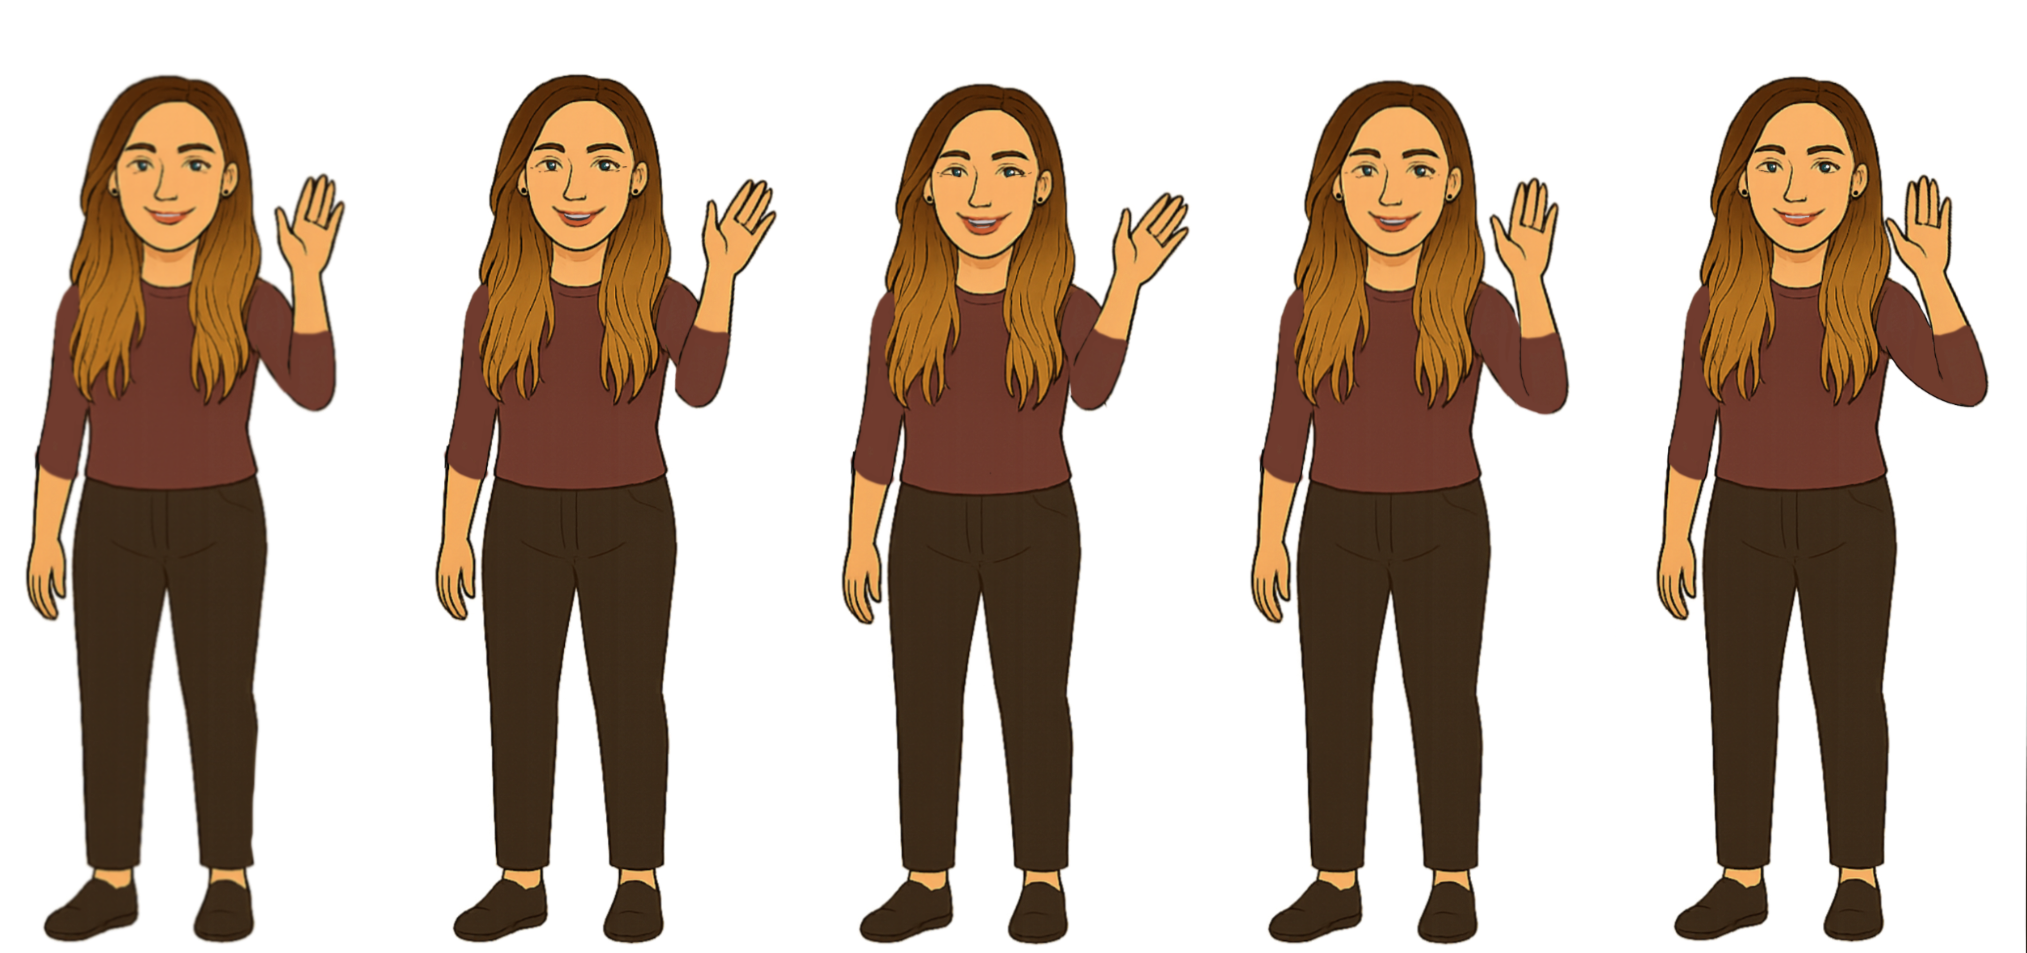
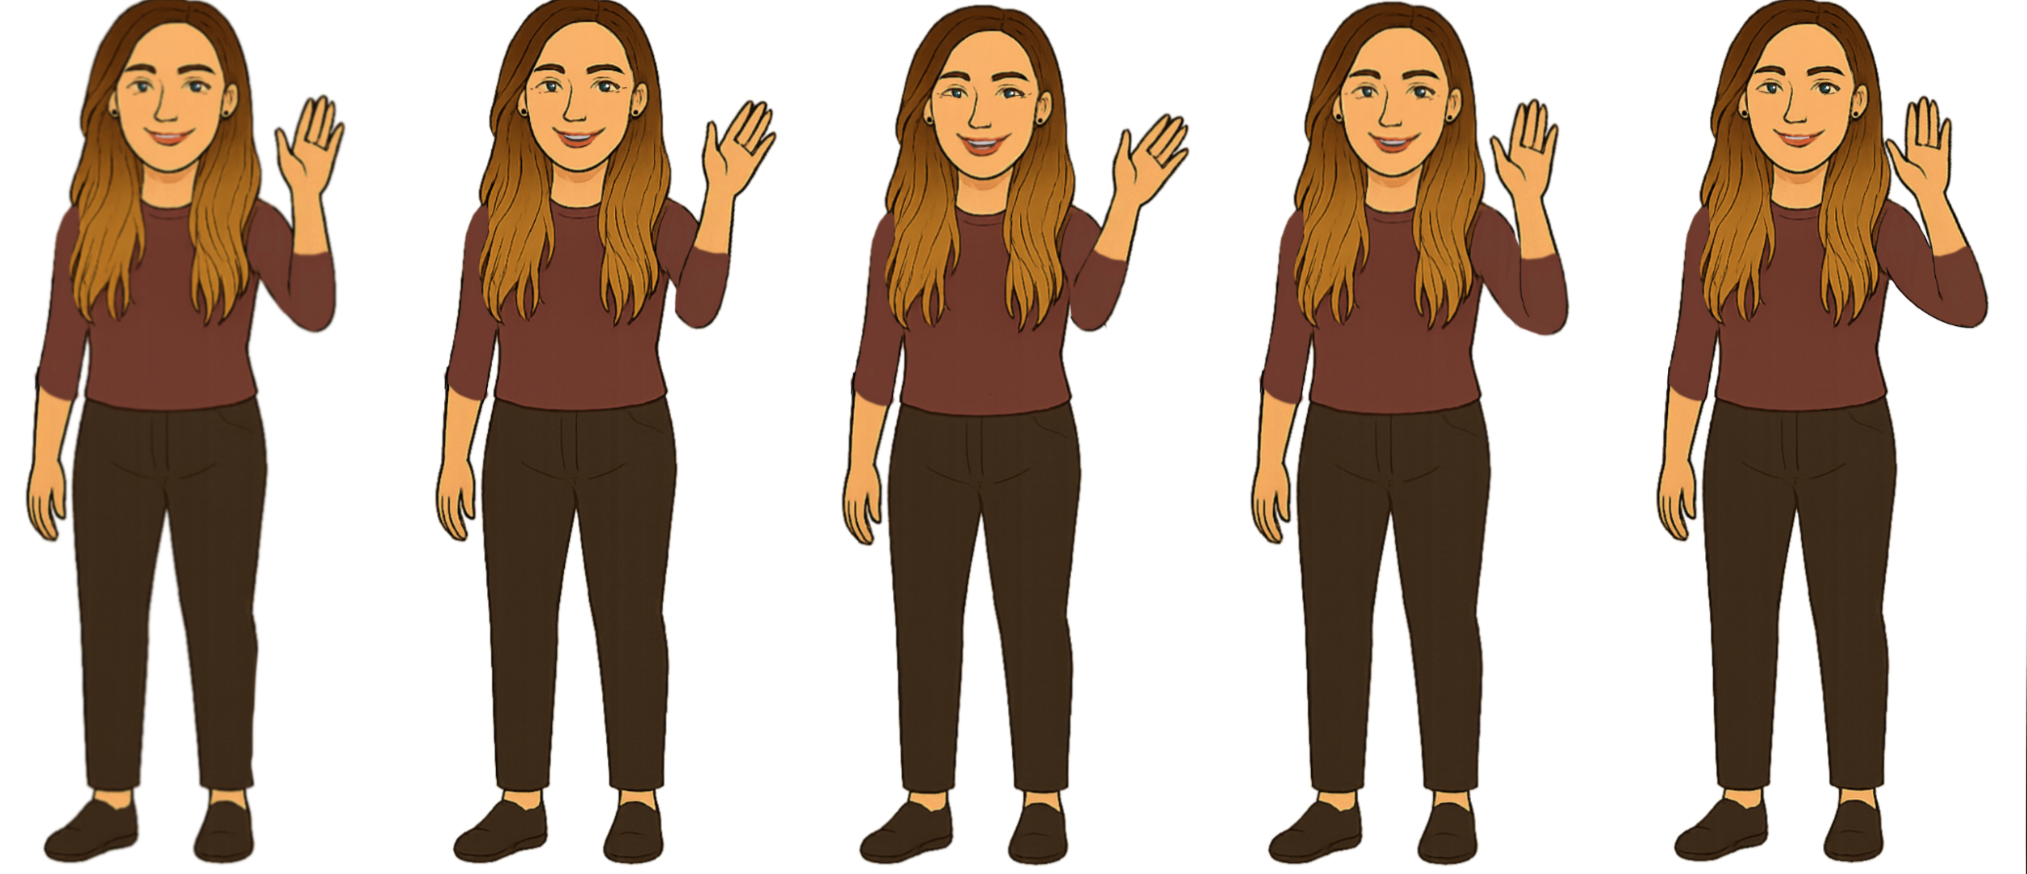
animation is OK but not on small screen, squished regardless

diff --git a/src/components/CharacterAnimation.css b/src/components/CharacterAnimation.css
@@ -13,7 +13,8 @@
 
 .character.walk {
   background-image: url("/assets/walk.png");
-  background-size: 800% 100%; /* 8 frames */
+  background-size: 3665px 100%; /* 8 frames, total width */
+  height: 1191px; /* 953px * 1.25 for 25% taller */
   animation: walk-frames 1s steps(8) infinite, walk-move 2s linear forwards;
 }
 
@@ -22,7 +23,7 @@
     background-position: 0 0;
   }
   to {
-    background-position: -3854px 0;
+    background-position: -3665px 0;
   }
 }
 
@@ -38,7 +39,8 @@
 .character.wave {
   left: 25vw;
   background-image: url("/assets/wave.png");
-  background-size: 500% 100%; /* 5 frames */
+  background-size: 2027px 100%; /* 5 frames, total width */
+  height: 1092.5px; /* 874px * 1.25 for 25% taller */
   animation: wave-frames 0.9s steps(5) infinite;
 }
 
@@ -47,6 +49,6 @@
     background-position: 0 0;
   }
   to {
-    background-position: -2346px 0;
+    background-position: -2027px 0;
   }
 }
